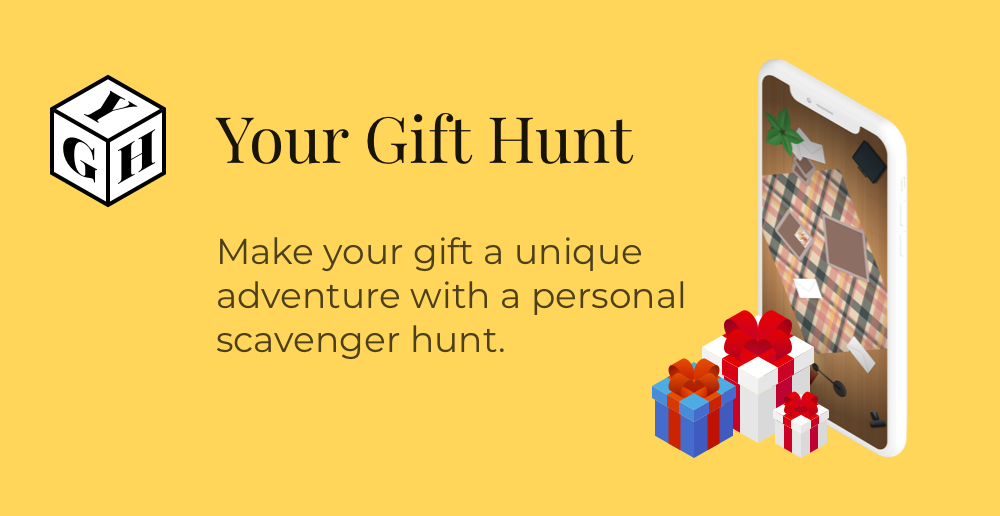
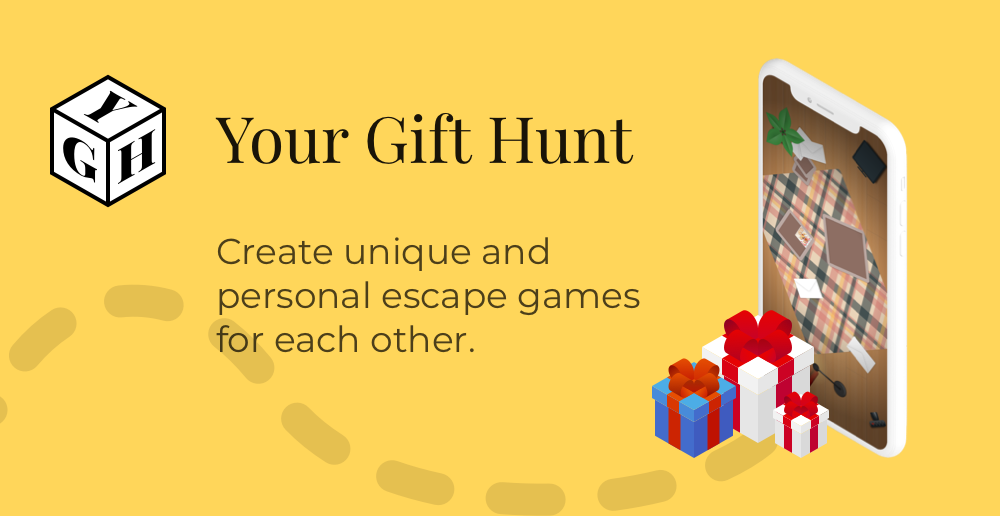
Update og-image and description

diff --git a/packages/ygh-creator/public/index.html b/packages/ygh-creator/public/index.html
@@ -7,32 +7,56 @@
       name="viewport"
       content="width=device-width, initial-scale=1, shrink-to-fit=no"
     />
-    <link rel="apple-touch-icon" sizes="180x180" href="%PUBLIC_URL%/apple-touch-icon.png">
-    <link rel="icon" type="image/png" sizes="32x32" href="%PUBLIC_URL%/favicon-32x32.png">
-    <link rel="icon" type="image/png" sizes="16x16" href="%PUBLIC_URL%/favicon-16x16.png">
-    <link rel="manifest" href="%PUBLIC_URL%/site.webmanifest">
-    <link rel="mask-icon" href="%PUBLIC_URL%/safari-pinned-tab.svg" color="#ffd65a">
-    <meta name="apple-mobile-web-app-title" content="Your Gift Hunt">
-    <meta name="application-name" content="Your Gift Hunt">
-    <meta name="msapplication-TileColor" content="#ffd65a">
-    <meta name="theme-color" content="#ffd65a">
+    <link
+      rel="apple-touch-icon"
+      sizes="180x180"
+      href="%PUBLIC_URL%/apple-touch-icon.png"
+    />
+    <link
+      rel="icon"
+      type="image/png"
+      sizes="32x32"
+      href="%PUBLIC_URL%/favicon-32x32.png"
+    />
+    <link
+      rel="icon"
+      type="image/png"
+      sizes="16x16"
+      href="%PUBLIC_URL%/favicon-16x16.png"
+    />
+    <link rel="manifest" href="%PUBLIC_URL%/site.webmanifest" />
+    <link
+      rel="mask-icon"
+      href="%PUBLIC_URL%/safari-pinned-tab.svg"
+      color="#ffd65a"
+    />
+    <meta name="apple-mobile-web-app-title" content="Your Gift Hunt" />
+    <meta name="application-name" content="Your Gift Hunt" />
+    <meta name="msapplication-TileColor" content="#ffd65a" />
+    <meta name="theme-color" content="#ffd65a" />
 
     <title>Creator | Your Gift Hunt</title>
     <meta
       name="description"
-      content="Make your gift a unique adventure with a personal scavenger gift hunt."
+      content="Create unique and personal escape games for each other."
     />
 
     <meta property="og:url" content="https://yourgifthunt.com" />
     <meta property="og:title" content="Your Gift Hunt" />
-    <meta property="og:description" content="Make your gift a unique adventure with a personal scavenger gift hunt." />
+    <meta
+      property="og:description"
+      content="Make your gift a unique adventure with a personal scavenger gift hunt."
+    />
     <meta property="og:image" content="%PUBLIC_URL%/og-image.png" />
     <meta property="fb:app_id" content="314877482688772" />
 
     <meta name="twitter:card" content="summary_large_image" />
     <meta name="twitter:creator" content="YourGiftHunt" />
     <meta name="twitter:title" content="Your Gift Hunt" />
-    <meta name="twitter:description" content="Make your gift a unique adventure with a personal scavenger gift hunt." />
+    <meta
+      name="twitter:description"
+      content="Make your gift a unique adventure with a personal scavenger gift hunt."
+    />
     <meta name="twitter:image" content="%PUBLIC_URL%/og-image.png" />
   </head>
   <body>
